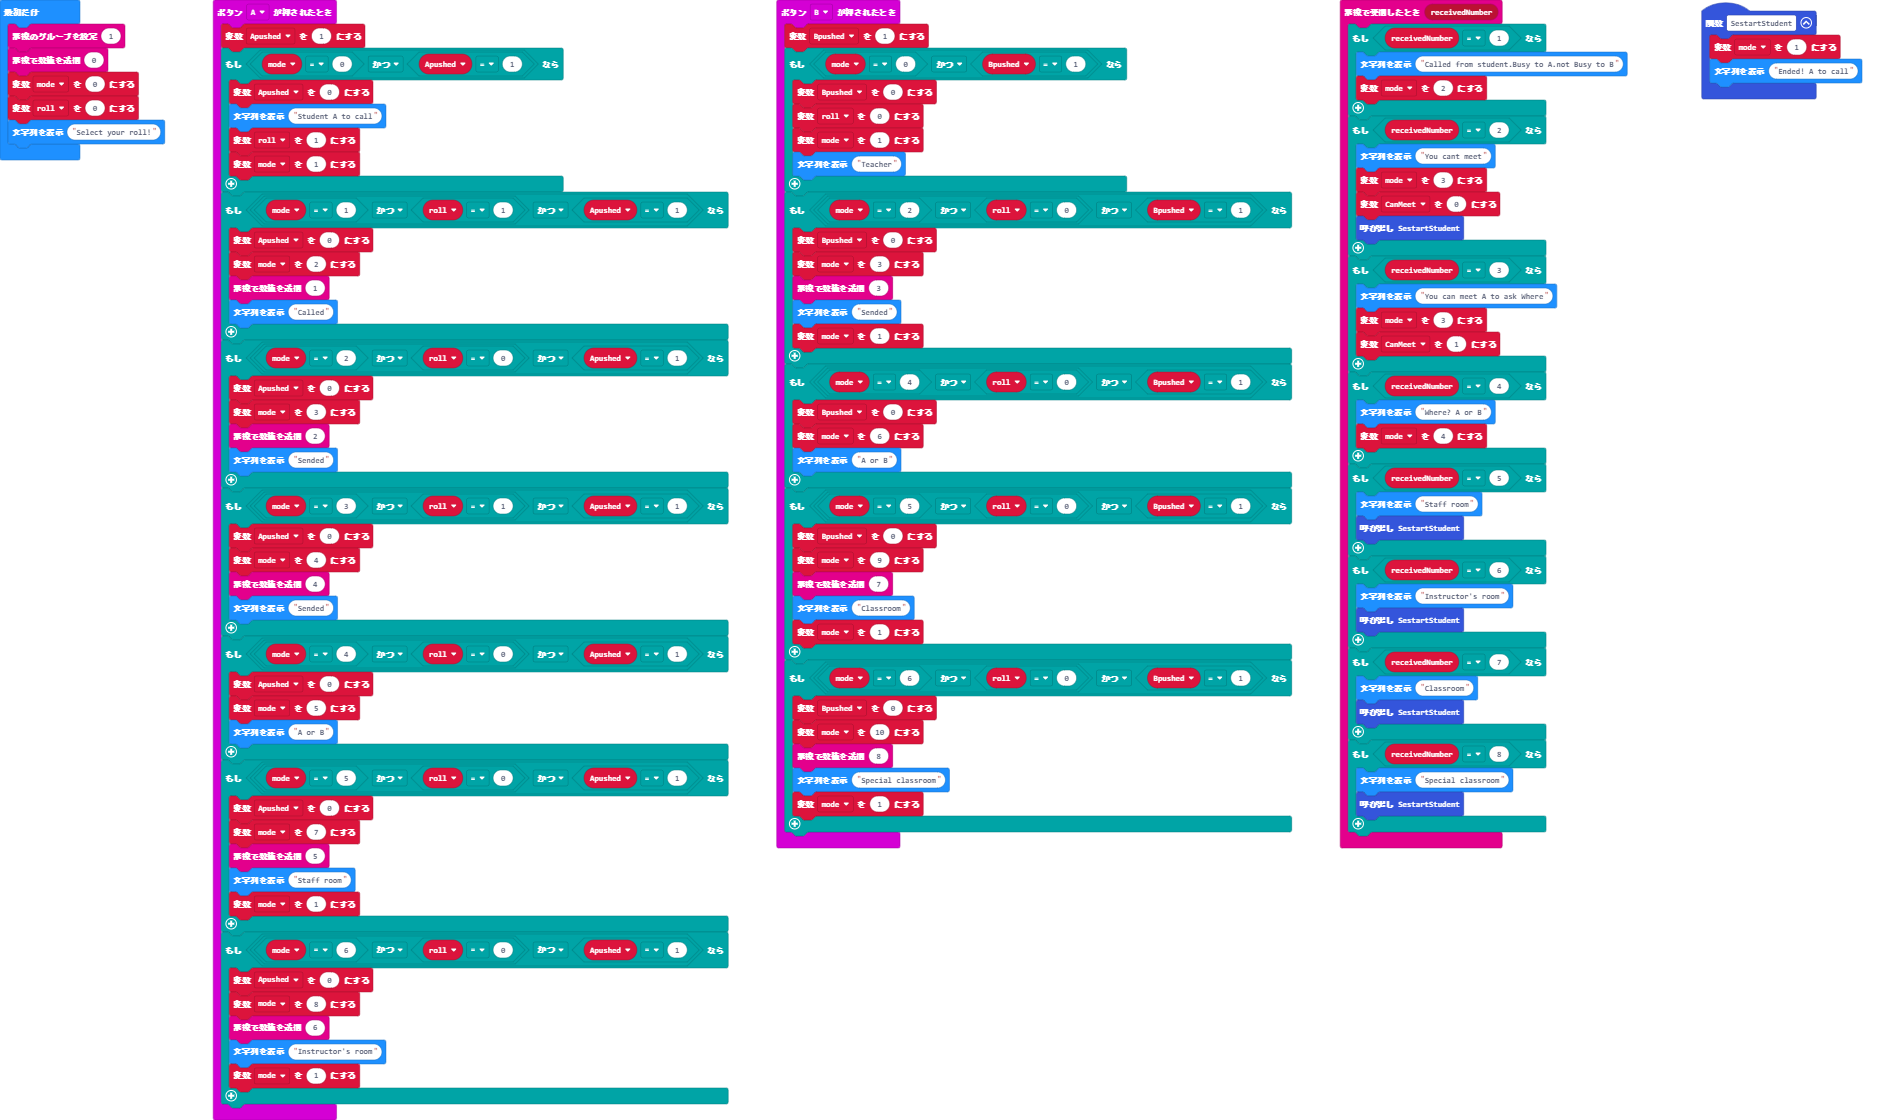
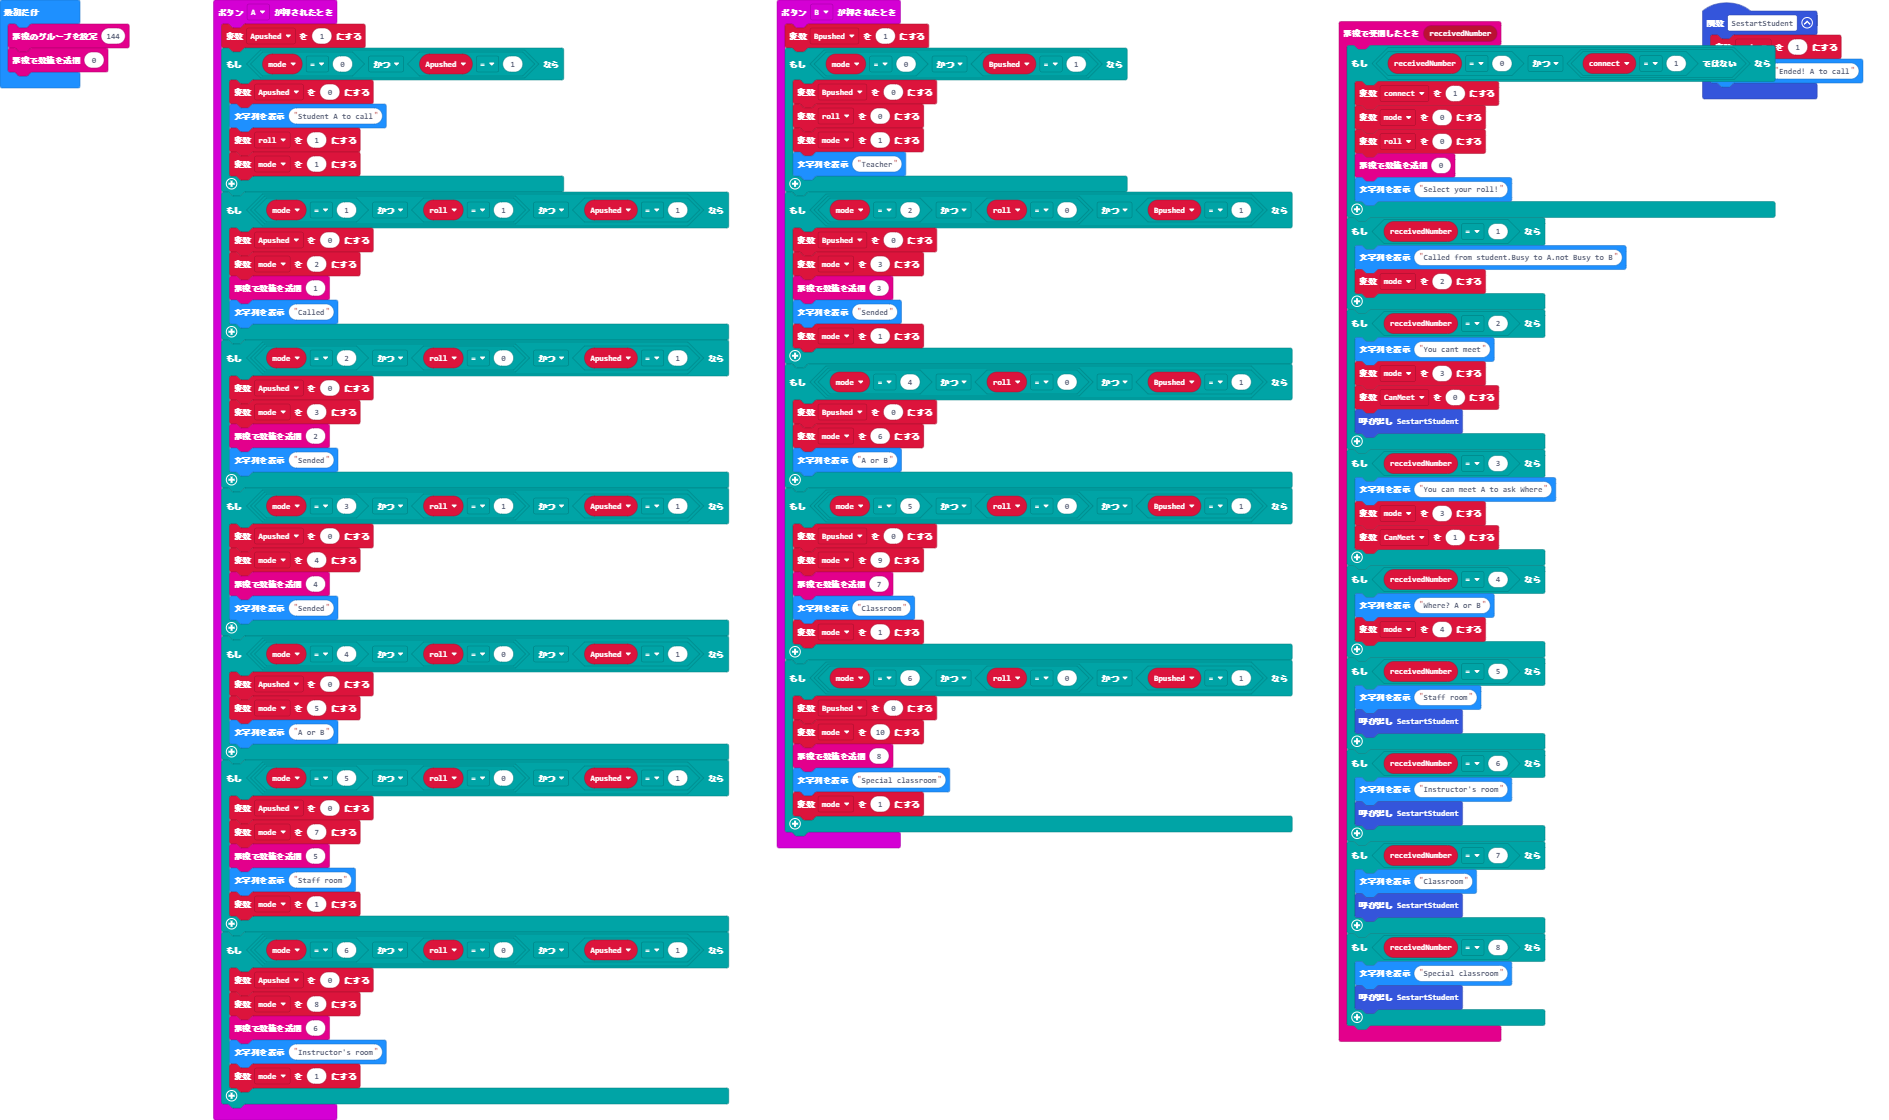
add connect check

diff --git a/main.ts b/main.ts
@@ -1,4 +1,11 @@
 radio.onReceivedNumber(function (receivedNumber) {
+    if (receivedNumber == 0 && !(connect == 1)) {
+        connect = 1
+        mode = 0
+        roll = 0
+        radio.sendNumber(0)
+        basic.showString("Select your roll!")
+    }
     if (receivedNumber == 1) {
         basic.showString("Called from student.Busy to A.not Busy to B")
         mode = 2
@@ -125,8 +132,6 @@ let Apushed = 0
 let CanMeet = 0
 let roll = 0
 let mode = 0
-radio.setGroup(1)
+let connect = 0
+radio.setGroup(144)
 radio.sendNumber(0)
-mode = 0
-roll = 0
-basic.showString("Select your roll!")
